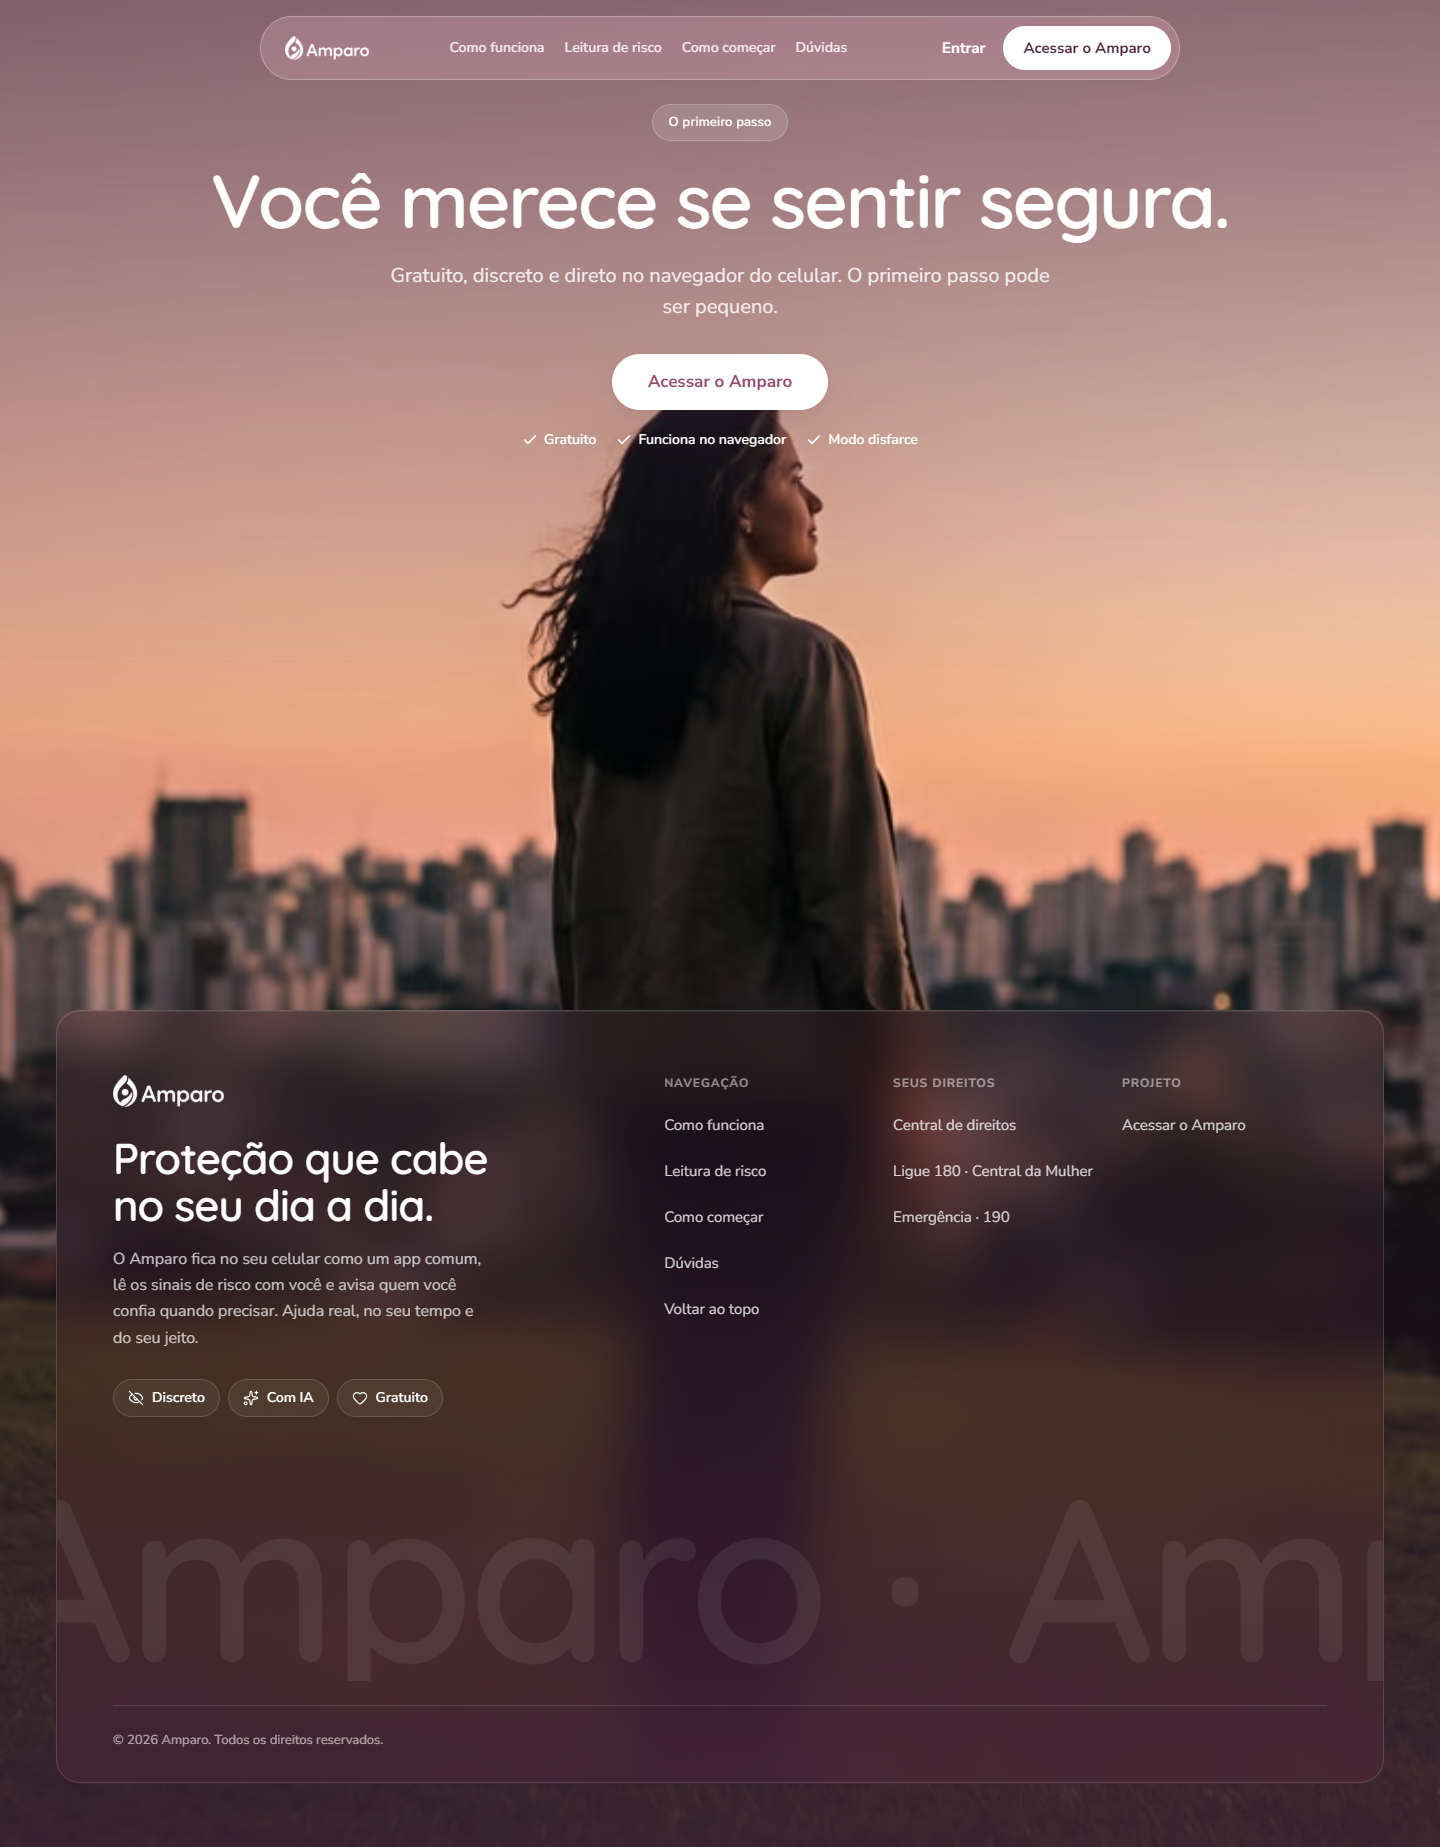
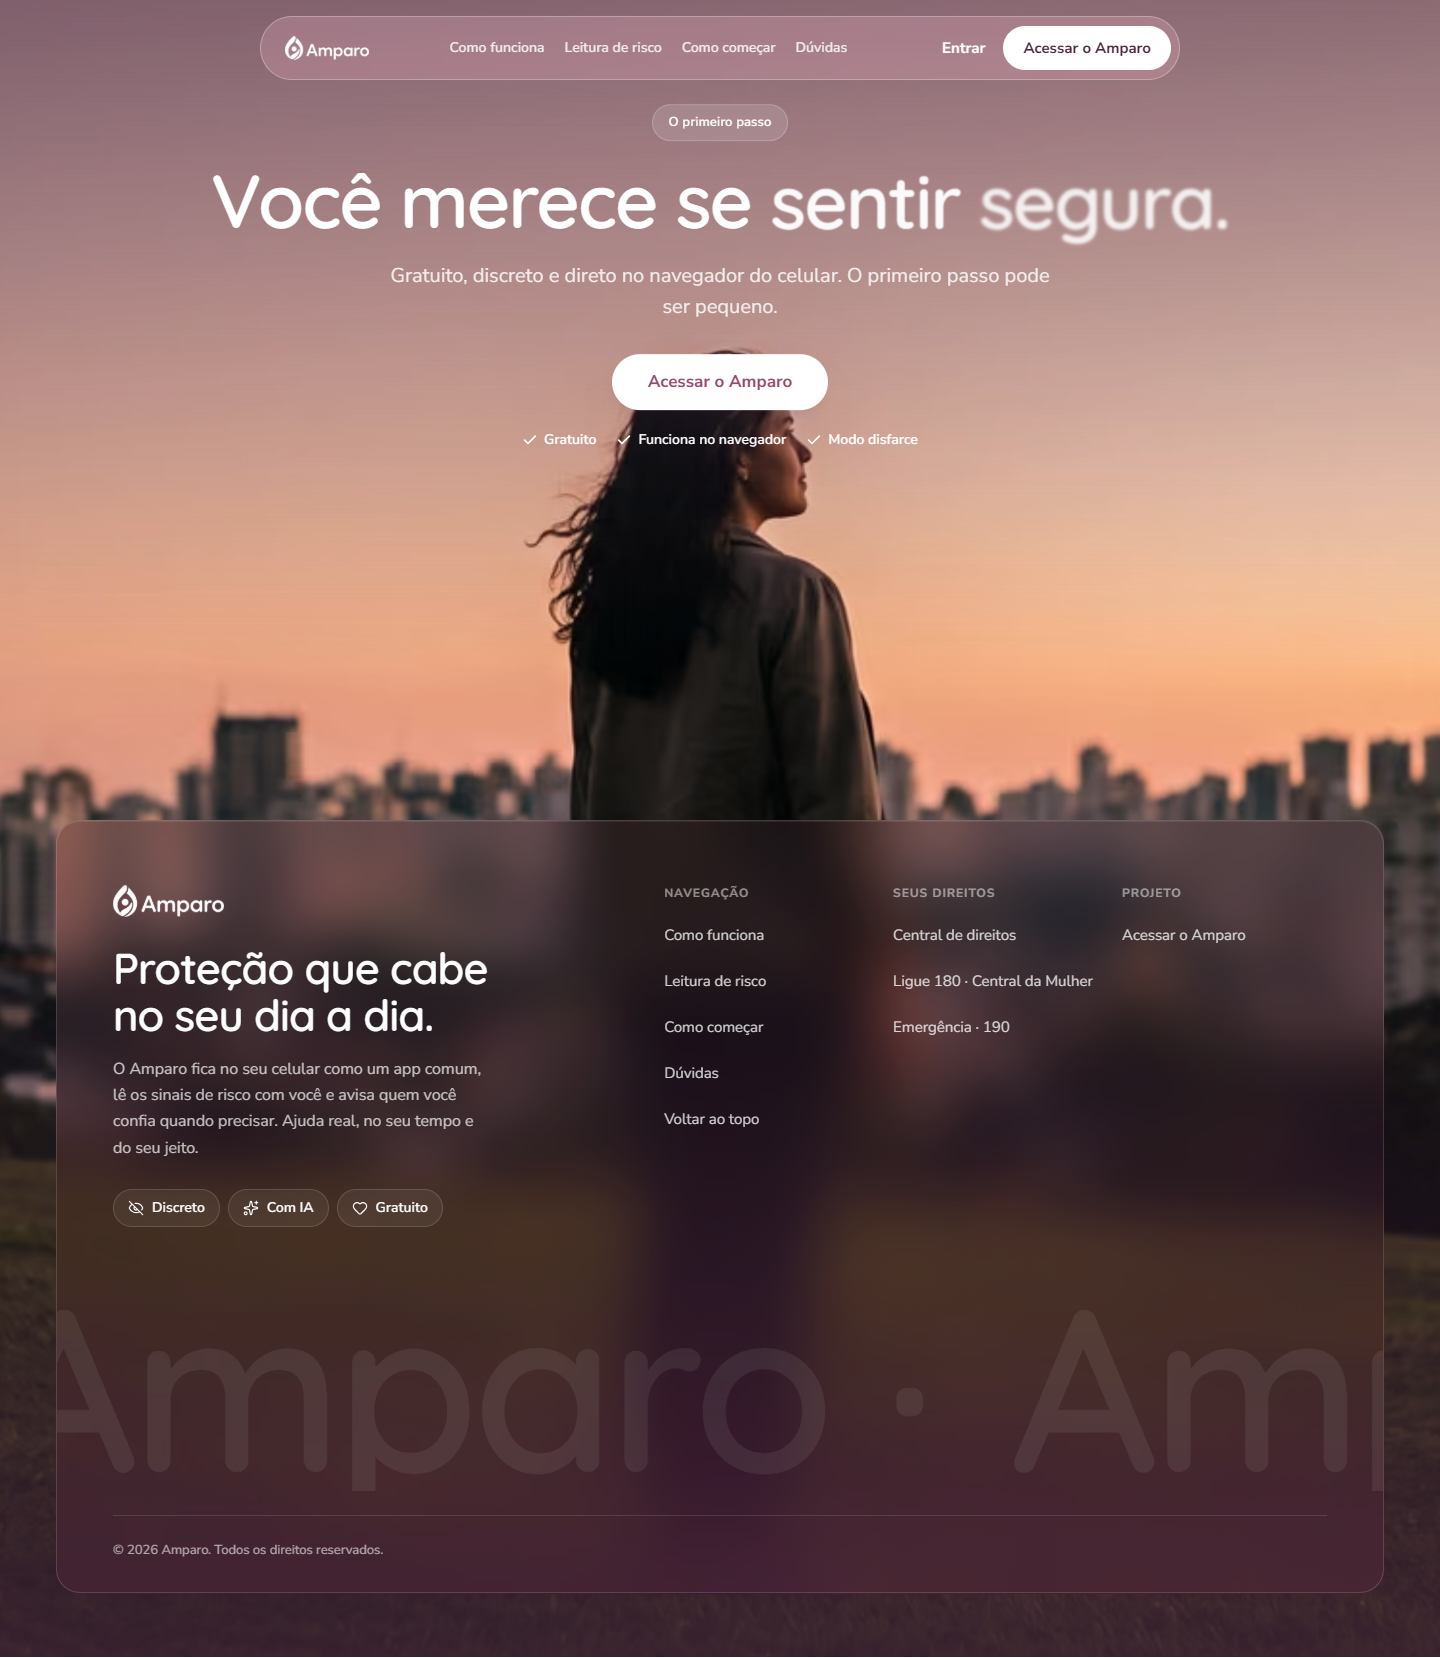
fix: CTA no desktop mais baixo, texto perto da cabeca da mulher

diff --git a/src/sections/CtaFinal.tsx b/src/sections/CtaFinal.tsx
@@ -133,7 +133,7 @@ export function CtaFinal() {
         </div>
 
         {/* Respiro para a mulher aparecer inteira antes do rodapé */}
-        <div aria-hidden className="h-[calc(max(115svh,760px)-560px)] md:h-[min(42vw,560px)]" />
+        <div aria-hidden className="h-[calc(max(115svh,760px)-560px)] md:h-[min(26vw,370px)]" />
         </div>
 
         <Footer />

diff --git a/NOTES.md b/NOTES.md
@@ -626,3 +626,4 @@ Referências: NextPay mobile (banner) e Gardance mobile (palco). Os sites não p
 - **Atenção:** o CLAUDE.md pedia "Amparo é um projeto de TCC…" visível no rodapé (honestidade, COPY §1). Com o texto legal fora, a menção ao projeto acadêmico que sobra é só "Projeto" nos links — confirmar com o cliente.
 - Prints: `screenshots/cta/` (1440, 1920, 390 inteiro), `screenshots/rodape/` (390 em 2 capturas, `reduzido/`, `contexto/`).
 - **Ajustes 2 (pedido do cliente):** fotos recortadas em 16:9 exato (2528×1422, mantendo a grama; até 2528px) e 9:16 (1422×2528). Bloco em tela cheia (sem margem nem raio). No desktop a foto cobre o bloco inteiro (`object-position 50% 20%`) e o rodapé de vidro a mostra desfocada por trás; respiro de `min(42vw, 560px)`. Rodapé: vidro quase sem cor (`rgb(149 75 110 / .08)`, 10% no celular) + blur 28px + saturate 140%, largura do grid + 48px, centralizado, margem inferior 64px (40px no celular). CTA mais largo (H2 em 1 linha a partir de ~1440, texto até 720px), sobre o céu. Bug: a margem de baixo do rodapé "vazava" para fora do bloco (colapso de margem — `overflow: clip` não contém margens); o shell agora é `flow-root`.
+- **Ajustes 3:** desktop com o bloco mais baixo (respiro `min(26vw, 370px)`): a cabeça da mulher fica logo abaixo do botão, perto do texto. Celular sem mudança.
